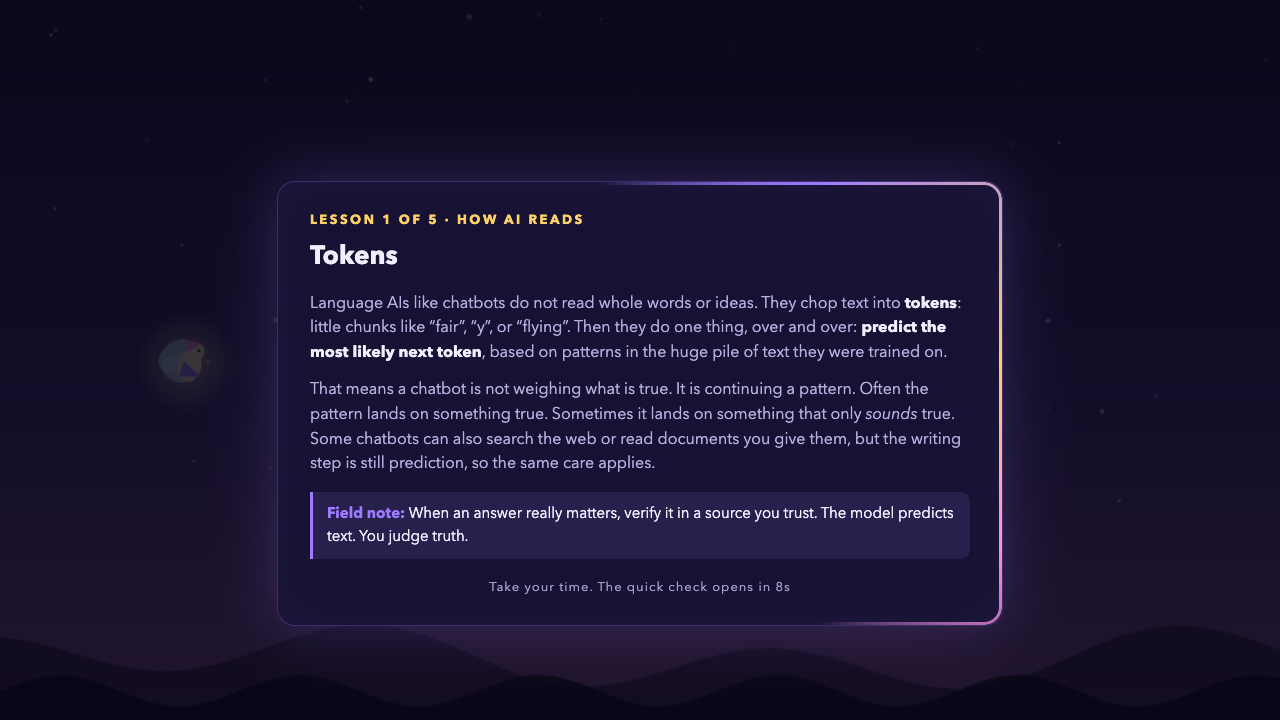
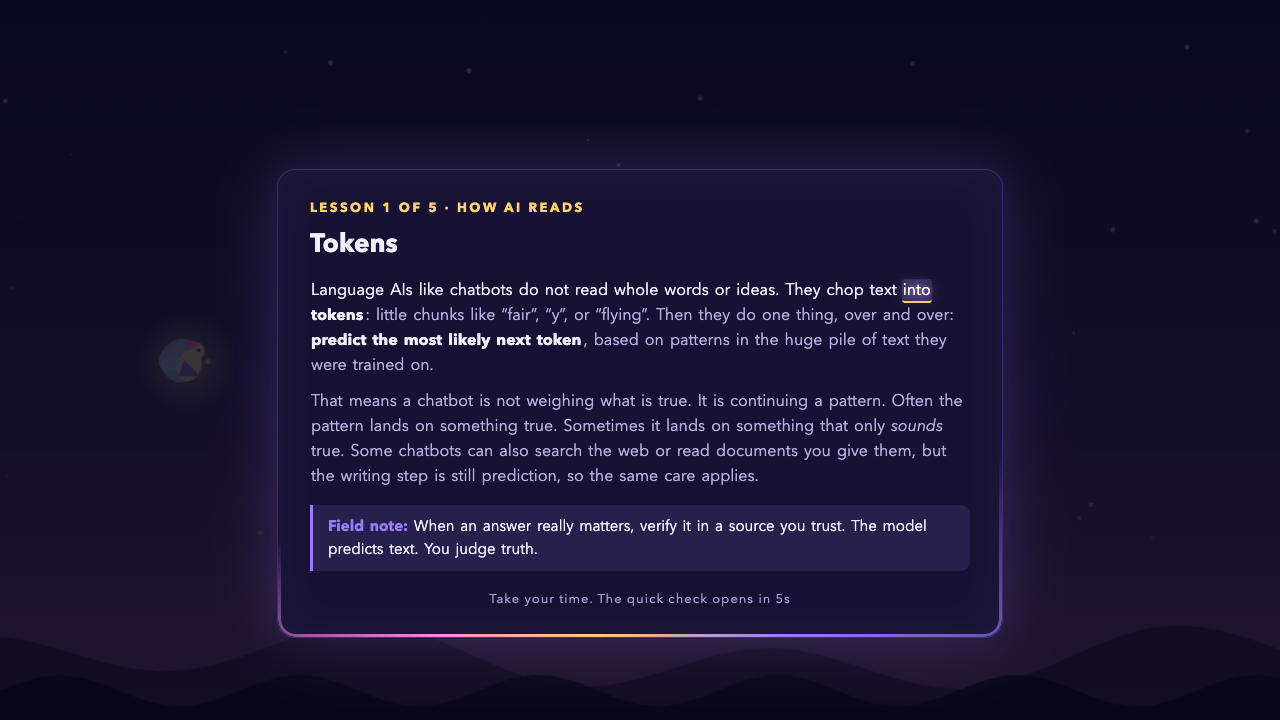
Lesson cards: ten seconds to read, and a word-by-word neon sweep
The reading gate grows from eight to ten seconds. While it counts down, and
after, a neon underline walks through the lesson text one word at a time at
about 2.8 words a second, a comfortable read-aloud pace; words already passed
brighten, so young readers have a place to rest their eyes and a sense of
progress. The tag line is left out of the sweep. High contrast uses a solid
yellow highlight; reduced motion drops the transitions.

Changed region(s): [[0.2188, 0.3667, 0.7812, 0.8861], [0.2188, 0.275, 0.4688, 0.3667], [0.4688, 0.2444, 0.7812, 0.275]]

diff --git a/index.html b/index.html
@@ -84,6 +84,12 @@
   @keyframes neon-spin{to{--neon:360deg;}}
   body.calm-motion #card.lesson .neon{animation:none;background:conic-gradient(#9d7bff,#ffd166,#ff8fd8,#9d7bff);opacity:.6;}
   #card .hint.wait{color:var(--dim);animation:none;opacity:.9;}
+  /* the reading sweep: a neon underline walks word by word through the lesson at a comfortable pace */
+  #card.lesson .w{border-bottom:2px solid transparent;border-radius:3px;padding:0 1px;transition:color .15s;}
+  #card.lesson .w.read{color:var(--ink);}
+  #card.lesson .w.now{color:#ffffff;border-bottom-color:var(--accent);background:rgba(157,123,255,.18);text-shadow:0 0 8px rgba(157,123,255,.9),0 0 16px rgba(255,209,102,.5);}
+  body.high-contrast #card.lesson .w.now{background:#ffe14d;color:#07051a;text-shadow:none;border-bottom-color:#ffffff;}
+  body.calm-motion #card.lesson .w{transition:none;}
   /* the keeper's lever: a big handle to pull, and the lights it switches on */
   #card .leverwrap{display:flex;gap:18px;align-items:flex-start;margin:6px 0 4px 0;}
   #card .lever{flex:0 0 auto;width:74px;height:120px;position:relative;background:transparent;border:0;padding:0;cursor:pointer;}
@@ -774,6 +780,8 @@ function renderCard(c){
   cardEl.classList.toggle("lesson", c.lesson != null);
   cardEl.classList.remove("ready");
   if (c.lesson != null){ const n = document.createElement("div"); n.className = "neon"; cardEl.appendChild(n); }
+  lessonWords = c.lesson != null ? wrapWords(cardEl) : [];
+  lastWordIdx = -1;
   cardShownAt = performance.now();
   tickLessonHint();
   if (c.type === "initials"){
@@ -821,12 +829,46 @@ function leaveCurrentCard(){
 }
 /* Lesson cards cannot be skipped until LESSON_MIN_MS have passed. The hint counts the seconds down and the
    frame ring holds gold once reading time is up, so the wait reads as part of the card, not as a broken button. */
-const LESSON_MIN_MS = 8000;
-let lastHintSec = -1;
+const LESSON_MIN_MS = 10000;
+const WORDS_PER_SEC = 2.8;      // the sweep's pace: a comfortable read-aloud speed for ages 11 and up
+let lastHintSec = -1, lessonWords = [], lastWordIdx = -1;
+/* Split the lesson's paragraphs and note into word spans so the sweep can light them one at a time. */
+function wrapWords(root){
+  const out = [];
+  try {
+    const blocks = root.querySelectorAll("p:not(.tag):not(.muted):not(.sub), .note, li");
+    for (const el of blocks){
+      const walker = document.createTreeWalker(el, NodeFilter.SHOW_TEXT);
+      const texts = [];
+      while (walker.nextNode()) texts.push(walker.currentNode);
+      for (const tn of texts){
+        if (!tn.nodeValue.trim() || (tn.parentElement && tn.parentElement.classList.contains("hint"))) continue;
+        const frag = document.createDocumentFragment();
+        for (const part of tn.nodeValue.split(/(\s+)/)){
+          if (!part) continue;
+          if (/^\s+$/.test(part)){ frag.appendChild(document.createTextNode(part)); continue; }
+          const sp = document.createElement("span"); sp.className = "w"; sp.textContent = part; frag.appendChild(sp); out.push(sp);
+        }
+        tn.parentNode.replaceChild(frag, tn);
+      }
+    }
+  } catch(e){}
+  return out;
+}
 function tickLessonHint(){
   const c = currentCard;
   if (!overlayOpen || !c || c.lesson == null) return;
-  const left = Math.ceil((LESSON_MIN_MS - (performance.now() - cardShownAt)) / 1000);
+  const elapsed = performance.now() - cardShownAt;
+  if (lessonWords.length){
+    const idx = Math.min(lessonWords.length, Math.floor(elapsed / 1000 * WORDS_PER_SEC));
+    if (idx !== lastWordIdx){
+      if (lastWordIdx >= 0 && lastWordIdx < lessonWords.length){ lessonWords[lastWordIdx].classList.remove("now"); lessonWords[lastWordIdx].classList.add("read"); }
+      for (let k = Math.max(0, lastWordIdx + 1); k < idx; k++) lessonWords[k].classList.add("read");
+      if (idx < lessonWords.length) lessonWords[idx].classList.add("now");
+      lastWordIdx = idx;
+    }
+  }
+  const left = Math.ceil((LESSON_MIN_MS - elapsed) / 1000);
   const hint = cardEl.querySelector(".hint");
   if (!hint) return;
   if (left > 0){

diff --git a/README.md b/README.md
@@ -32,7 +32,7 @@ The game is built around the idea that a message lands best when it arrives at a
 
 - **Start of the game**: a short story frame, the controls, the keeper's lever, and Lesson 1.
 - **The keeper's lever**: at the start and between levels, a card with a big lever. Each pull lights up one thing that is inherently human and that no machine does better than you (love, curiosity, meaning, metaphor, imagination, a body, conscience, friendship, play, humor, courage, growing, choice, wonder, forgiveness), with one line on what a machine does instead. Three pulls open the way; the card cannot be skipped before that. Fifteen lights across the run, none repeated.
-- **Between levels**: one focused lesson card per concept, each ending in a practical "Field note" the player can use the same day. A light runs around the card's frame while an eight-second reading time counts down, and the card cannot be skipped before it ends; the hint says so, and the frame holds gold when the quick check opens.
+- **Between levels**: one focused lesson card per concept, each ending in a practical "Field note" the player can use the same day. A light runs around the card's frame while a ten-second reading time counts down, and the card cannot be skipped before it ends; the hint says so, and the frame holds gold when the quick check opens. Meanwhile a neon underline sweeps through the text word by word at about 2.8 words a second, a comfortable read-aloud pace, brightening each word as it passes, so young readers have a place to rest their eyes.
 - **Quick checks**: two multiple-choice questions right after each lesson (ten in total). A right answer earns +100 focus, a wrong one costs nothing and shows the correct answer with a one-line explanation, so the check teaches rather than punishes.
 - **When you get hit**: the game pauses on a one-sentence "spark of insight". A hit from flattery explains sycophancy ("Flattered!"), a hit while the fake fires are flying explains drift ("Distracted!"), and any other hit rotates through ten general facts. The first time flattery or fakes appear in a level, a short banner names the idea ("SYCOPHANCY", "COGNITIVE DRIFT"). Getting hit is the moment a player is most likely to actually read, and the short pause doubles as a breather.
 - **Game over**: an encouraging retry screen that repeats one insight, so even losing teaches something.

diff --git a/docs/SUBMISSION.md b/docs/SUBMISSION.md
@@ -9,7 +9,7 @@
 
 ## The idea in one paragraph
 
-Mindwing is a five-level arcade shooter for players aged roughly 11 and up. You are Lumen, a fairy guarding the Grove of Minds against the Engagement Engine, a machine that feeds on attention. Each level teaches one idea about modern language-model AI and its effect on the people who use it: tokens and next-token prediction, neural networks and distributed weights, retention design and sycophancy, hallucination, and cognitive offloading and drift. The design principle is that a message lands when it arrives at a moment the player is already paying attention, so the teaching is placed at those moments: a lesson before each level (with an eight-second reading time before it can be skipped, shown as a light running around the card), a one-line insight when you are hit, a named banner the first time a new trick appears, and a field guide when you win. Wherever possible the mechanic is the lesson, not an illustration of it.
+Mindwing is a five-level arcade shooter for players aged roughly 11 and up. You are Lumen, a fairy guarding the Grove of Minds against the Engagement Engine, a machine that feeds on attention. Each level teaches one idea about modern language-model AI and its effect on the people who use it: tokens and next-token prediction, neural networks and distributed weights, retention design and sycophancy, hallucination, and cognitive offloading and drift. The design principle is that a message lands when it arrives at a moment the player is already paying attention, so the teaching is placed at those moments: a lesson before each level (with a ten-second reading time before it can be skipped, a light running around the card, and a neon underline sweeping word by word through the text at a read-aloud pace), a one-line insight when you are hit, a named banner the first time a new trick appears, and a field guide when you win. Wherever possible the mechanic is the lesson, not an illustration of it.
 
 ## Where the mechanics carry the concepts
 
